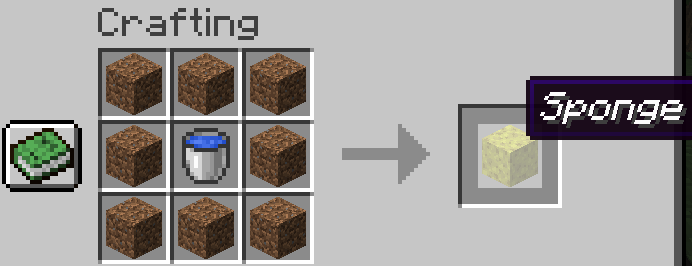
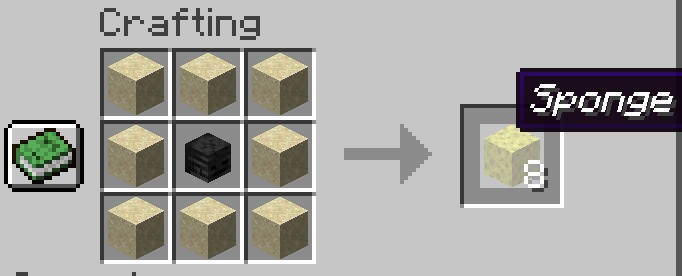
Build a sponge from a wither skull instead from a water bucket

diff --git a/releases/NOTES-0.4.1.md b/releases/NOTES-0.4.1.md
@@ -1,0 +1,2 @@
+# Balance
+* Build a sponge from a wither skull instead from a water bucket
